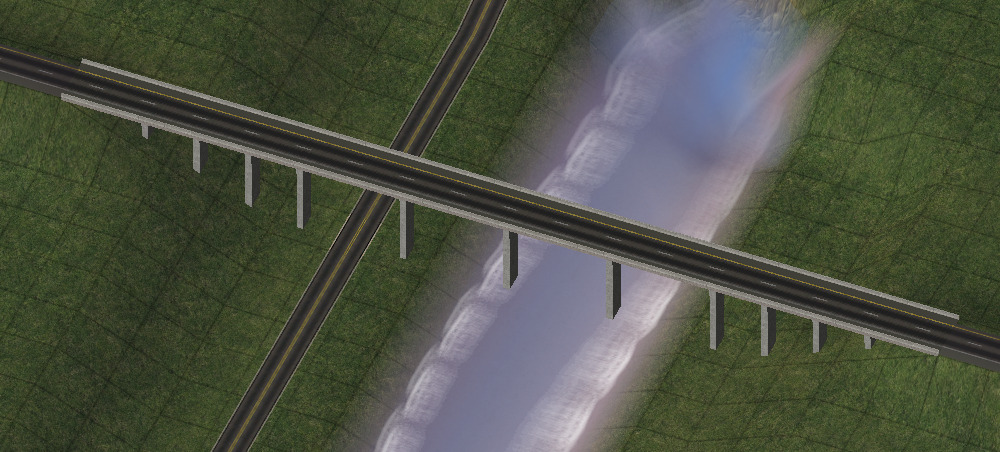
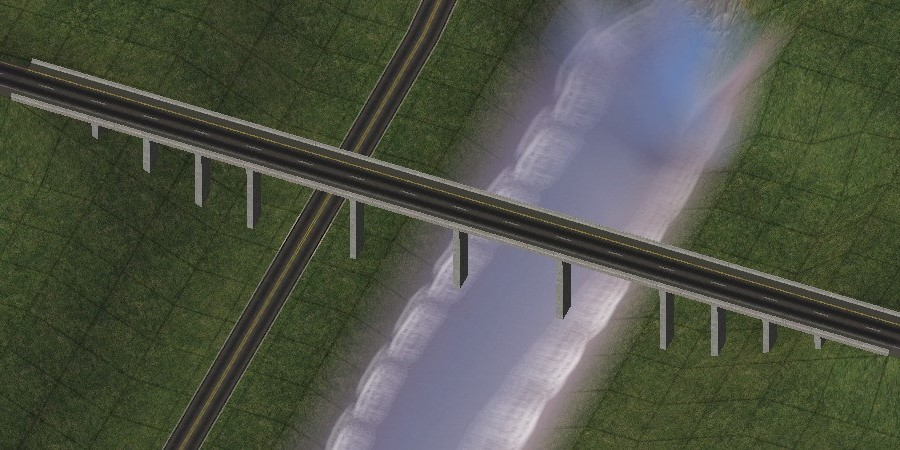
update slope images

diff --git a/content/docs/feature-guides/dll/index.md b/content/docs/feature-guides/dll/index.md
@@ -23,12 +23,12 @@ One of the most substantial new features of the DLL is a custom RUL2 engine.
 The new custom engine: 
 - makes override networks much more stable,
 - allows for tighter footprints (i.e. crossings of override networks that previously had to be placed one tile apart may now be placed directly adjacent to each other),
-- reduces the size of the NAM codebase by almost 90% and by more than 10 million lines, making it easier to maintain and reducing the chance of bugs,
+- reduces the size of the NAM codebase by almost 90% and by 10.8 million lines, making it easier to maintain and reducing the chance of bugs,
 - improves performance and load time (the initial city load time is reduced by a huge amount, as a result of the controller code size reduction),
 - removes the strict requirement for the 4GB patch (though usage is still recommended), and
 - removes the Low-RAM/No-RHW controller as the full NAM Controller is now less than 60 MB.
 
-{{< img-simple src="images/rul2-code-diff.jpg" class="img-fluid" caption="Lines of RUL2 code removed because of the new engine" >}}
+{{< img-simple src="images/rul2-code-diff.jpg" class="img-fluid" caption="Lines of RUL2 removed from the controller due to the new engine" >}}
 
 ### Eternal Commuter Loop Fix
 The Eternal Commuter Loop is a bug (or design flaw in the game's pathfinding) in the game by which commuters between a series of cities get stuck in a loop traveling between cities, never actually finding a job. 
@@ -52,24 +52,21 @@ The slope tolerance for many network elements has been significantly improved.
     - The sinkhole bug associated with them is fixed.
     - Networks can be dragged through the On-slope transition piece.
 
-{{< gallery col-xl="2" col-lg="2" col-md="2" >}}
+{{< gallery col-xl="2" col-lg="2" col-md="2" caption="Improved slope tolerance for stations and starters">}}
     images/slope-tolerant-starters-1.jpeg
     images/slope-tolerant-starters-2.jpeg
 {{< /gallery >}}
 
-{{< gallery col-xl="3" col-lg="2" col-md="2" >}}
-    images/slope-tolerant-curves-1.jpeg
-    images/slope-tolerant-curves-2.jpeg
-    images/slope-tolerant-curves-3.jpeg
-    images/slope-tolerant-curves-4.jpeg
-    images/slope-tolerant-curves-5.jpeg
+{{< gallery col-xl="2" col-lg="2" col-md="2" caption="Improved slope tolerance for curves">}}
+    images/slope-tolerant-curves-1.jpg
+    images/slope-tolerant-curves-2.jpg
+    images/slope-tolerant-curves-3.jpg
+    images/slope-tolerant-curves-4.jpg
 {{< /gallery >}}
 
-{{< gallery col-xl="3" col-lg="3" col-md="3" >}}
-    images/on-slope-1.jpeg
-    images/on-slope-2.jpeg
-    images/on-slope-3.jpeg
-{{< /gallery >}}
+{{< img-simple src="images/on-slope-3.jpeg" class="img-fluid" caption="Networks can pass through on-slope pieces" >}}
+
+{{< img-simple src="images/on-slope-2.jpeg" class="img-fluid" caption="Smaller footprint of on-slope pieces allows networks to be placed adjacent to them" >}}
 
 ### Street Network updates
 Multiple updates have been included for the street network:
